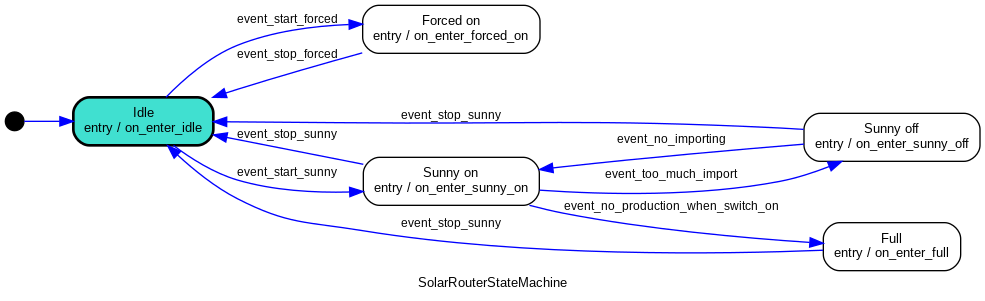
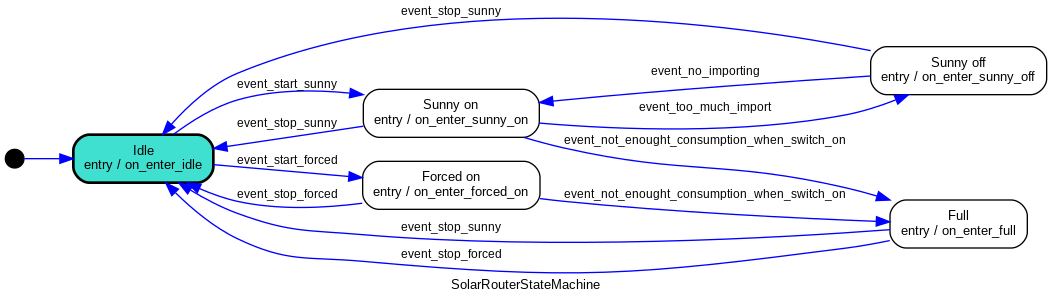
add full state in forced_mode

Changed region(s): [[0.0, 0.0, 1.0, 0.9568], [0.2437, 0.8073, 0.2741, 0.8372], [0.2132, 0.7774, 0.2437, 0.8073]]

diff --git a/soft_solar_router/application/state_machine.py b/soft_solar_router/application/state_machine.py
@@ -18,9 +18,11 @@ class SolarRouterStateMachine(StateMachine):
     event_no_importing = sunny_off.to(sunny_on)
 
     event_start_forced = idle.to(forced_on)
-    event_stop_forced = forced_on.to(idle)
+    event_stop_forced = forced_on.to(idle) | full.to(idle)
 
-    event_not_enought_consumption_when_switch_on = sunny_on.to(full)
+    event_not_enought_consumption_when_switch_on = sunny_on.to(full) | forced_on.to(
+        full
+    )
 
     def __init__(self):
         self.expected_switch_state = False
